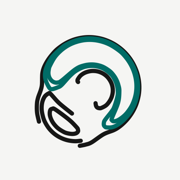
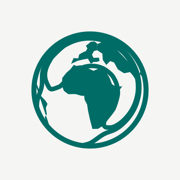
Draw the brand mark as the Earth
The print alone did not read as Earth. The mark is now an orthographic
globe over Africa and Europe, with two ridges from the original print
sweeping through the ocean behind the continents, so the print idea
survives in the shape rather than carrying it.

It is drawn in the theme accent alone. The earlier two-tone attempt put
the accent on ridges at the artwork's own stroke width, which falls
under a pixel once the 512 box is scaled to the 32px nav, so the mark
read as one flat colour with no ridges visible at all.

Coastlines are coarse hand-authored lon/lat outlines projected
orthographically and clipped at the limb, so proportion and curvature
are real while coastline detail is not. The static SVG, apple-touch icon
and favicon.ico are regenerated from the same geometry.

Changed region(s): [[0.1667, 0.1667, 0.8333, 0.8333], [0.3611, 0.3889, 0.3889, 0.4167]]

diff --git a/src/icons/BrandMark.tsx b/src/icons/BrandMark.tsx
@@ -1,51 +1,80 @@
+"use client";
+
+import { useId } from "react";
+
+/**
+ * The EarthPrints mark: an orthographic globe over Africa and Europe, with two
+ * print ridges sweeping through the ocean behind the continents. Drawn in the
+ * theme accent alone, so it re-tints itself in both themes.
+ *
+ * Continents are coarse hand-authored lon/lat outlines projected
+ * orthographically and clipped at the limb, so proportion and curvature are
+ * real while coastline detail is deliberately not.
+ */
+
+/** Coastlines, already projected. */
+const LAND = [
+  "M 82.8 156.1 L 87.0 149.1 L 96.3 137.5 L 107.9 126.5 L 116.3 120.6 L 124.2 118.1 L 137.0 110.0 L 157.8 88.7 L 162.2 81.2 L 185.6 68.9 L 191.2 66.8 Z",
+  "M 58.2 226.5 L 60.8 217.4 L 64.1 229.5 L 72.6 252.4 L 74.7 270.7 L 84.7 280.8 L 96.9 294.0 L 104.3 305.5 L 98.3 320.2 L 102.0 342.1 L 94.5 353.5 L 102.3 376.9 L 106.1 385.7 L 106.7 388.6 L 116.4 399.2 Z",
+  "M 157.1 212.9 L 155.6 240.7 L 163.0 259.0 L 178.2 270.7 L 204.5 270.5 L 224.8 276.5 L 235.1 276.7 L 236.8 290.6 L 245.6 307.7 L 249.2 330.9 L 256.0 362.0 L 264.7 394.9 L 284.8 394.5 L 307.1 380.5 L 319.4 360.0 L 337.6 337.4 L 339.2 321.2 L 346.7 293.8 L 349.7 272.9 L 371.0 242.5 L 350.8 244.8 L 334.6 235.7 L 325.5 212.1 L 313.5 192.5 L 306.1 183.0 L 285.5 180.6 L 268.1 187.5 L 241.5 174.5 L 222.4 167.7 L 208.1 170.2 L 198.0 166.5 L 186.3 181.8 L 172.3 193.9 Z",
+  "M 188.5 162.6 L 197.5 142.0 L 213.9 143.1 L 217.6 129.1 L 230.4 121.7 L 241.7 116.9 L 246.8 107.3 L 241.3 98.2 L 251.7 90.2 L 257.3 84.6 L 271.4 82.5 L 281.1 89.5 L 281.9 102.2 L 281.8 114.1 L 270.3 116.9 L 262.9 130.1 L 268.3 141.2 L 287.8 140.7 L 290.0 152.3 L 280.0 155.7 L 269.4 155.9 L 258.8 162.1 L 248.5 144.1 L 233.1 146.8 L 211.9 151.8 Z",
+  "M 303.9 61.8 L 303.9 61.8 L 312.5 65.0 L 304.2 65.6 L 309.0 71.9 L 312.0 77.7 L 304.4 79.3 L 299.0 84.0 L 290.4 88.9 L 282.1 91.5 L 281.9 102.2 L 281.8 114.1 L 300.0 126.1 L 301.9 148.8 L 314.0 166.5 L 327.9 152.9 L 341.8 157.7 L 355.3 182.2 L 377.3 196.2 L 384.2 195.0 L 398.8 192.1 L 408.9 204.0 L 419.0 219.4 L 430.9 244.7 L 434.5 236.3 L 432.6 199.8 L 435.1 190.6 L 442.4 205.9 L 451.0 226.6 L 450.1 214.6 L 455.8 253.8 L 453.0 221.8 L 452.6 219.1 Z",
+  "M 169.4 94.1 L 175.3 84.9 L 185.6 77.8 L 209.3 67.1 L 230.8 63.0 L 238.8 63.5 L 232.1 69.3 L 218.8 77.2 L 201.2 82.3 L 184.2 87.7 Z",
+];
+
+/**
+ * Ridges carried over from the original print. Kept wider than the source
+ * artwork because a stroke at its own width falls under a pixel once the 512
+ * box is scaled to the 32px nav.
+ */
+const RIDGES = [
+  "M 73.93 368.81 C 72.82 363.61, 68.46 347.85, 67.23 337.61 C 66.00 327.36, 66.03 316.24, 66.57 307.33 C 67.10 298.43, 67.60 294.82, 70.45 284.16 C 73.30 273.50, 80.96 258.67, 83.66 243.37 C 86.36 228.07, 83.65 206.99, 86.66 192.36 C 89.66 177.74, 94.84 167.45, 101.66 155.62 C 108.49 143.79, 119.45 130.43, 127.61 121.38 C 135.76 112.33, 142.50 107.25, 150.57 101.30 C 158.64 95.35, 167.40 90.05, 176.03 85.67 C 184.65 81.30, 193.19 77.85, 202.33 75.04 C 211.47 72.23, 221.39 70.06, 230.88 68.79 C 240.36 67.53, 249.62 67.07, 259.25 67.46 C 268.88 67.85, 279.08 69.11, 288.65 71.13 C 298.23 73.15, 307.48 75.93, 316.70 79.57 C 325.92 83.21, 335.26 87.72, 343.99 92.98 C 352.71 98.24, 361.39 104.55, 369.07 111.13 C 376.75 117.71, 383.66 124.75, 390.08 132.46 C 396.51 140.16, 402.44 148.44, 407.62 157.38 C 412.80 166.33, 417.64 176.76, 421.19 186.12 C 424.73 195.47, 427.06 204.02, 428.87 213.51 C 430.68 223.01, 431.84 233.26, 432.04 243.10 C 432.24 252.93, 431.62 262.66, 430.07 272.53 C 428.52 282.40, 425.68 293.34, 422.73 302.34 C 419.77 311.35, 416.36 318.84, 412.33 326.57 C 408.30 334.30, 403.58 341.77, 398.56 348.72 C 393.54 355.68, 388.25 362.07, 382.19 368.32 C 376.14 374.57, 369.04 381.11, 362.24 386.23 C 355.43 391.36, 351.00 394.43, 341.35 399.06 C 331.71 403.69, 317.60 406.73, 304.35 414.02 C 291.11 421.31, 272.48 436.67, 261.90 442.79 C 251.32 448.90, 247.93 448.68, 240.89 450.73 C 233.84 452.78, 223.16 454.36, 219.62 455.08",
+  "M 207.83 186.61 C 198.92 192.06, 193.35 197.18, 184.42 205.85 C 175.48 214.53, 161.56 231.85, 154.21 238.66 C 146.86 245.47, 145.53 244.40, 140.32 246.74 C 135.10 249.07, 127.10 251.77, 122.92 252.66 C 118.74 253.56, 117.67 253.46, 115.25 252.11 C 112.84 250.76, 111.01 248.89, 108.41 244.54 C 105.82 240.20, 101.82 232.02, 99.68 226.04 C 97.55 220.06, 96.17 214.43, 95.59 208.66 C 95.01 202.88, 95.24 197.27, 96.20 191.38 C 97.15 185.50, 98.83 179.68, 101.30 173.37 C 103.78 167.05, 107.23 159.99, 111.04 153.52 C 114.85 147.04, 116.44 142.95, 124.17 134.53 C 131.90 126.11, 148.54 110.32, 157.42 103.01 C 166.31 95.69, 170.65 94.23, 177.49 90.64 C 184.33 87.04, 191.14 84.03, 198.45 81.43 C 205.75 78.83, 213.57 76.60, 221.32 75.03 C 229.06 73.47, 236.88 72.44, 244.90 72.03 C 252.92 71.62, 261.46 71.84, 269.44 72.58 C 277.43 73.33, 284.92 74.59, 292.81 76.52 C 300.70 78.45, 308.91 81.02, 316.77 84.18 C 324.63 87.34, 332.88 91.44, 339.97 95.50 C 347.06 99.55, 352.92 103.52, 359.31 108.53 C 365.69 113.54, 371.61 118.34, 378.27 125.57 C 384.93 132.80, 393.23 142.72, 399.26 151.92 C 405.29 161.12, 410.32 170.69, 414.47 180.76 C 418.61 190.84, 421.98 201.67, 424.13 212.37 C 426.29 223.06, 427.36 234.37, 427.42 244.92 C 427.47 255.47, 426.57 265.22, 424.47 275.66 C 422.38 286.11, 419.13 297.38, 414.85 307.61 C 410.56 317.85, 404.91 328.05, 398.75 337.06 C 392.59 346.07, 385.03 354.65, 377.88 361.70 C 370.74 368.75, 362.97 374.85, 355.86 379.37 C 348.75 383.88, 342.00 387.09, 335.22 388.78 C 328.44 390.47, 319.58 389.87, 315.20 389.48 C 310.82 389.10, 310.54 387.82, 308.94 386.47 C 307.33 385.12, 306.12 383.62, 305.55 381.39 C 304.99 379.16, 304.83 376.22, 305.54 373.10 C 306.25 369.98, 305.31 369.26, 309.81 362.66 C 314.31 356.06, 327.02 341.34, 332.52 333.52 C 338.03 325.69, 339.21 325.14, 342.83 315.73 C 346.46 306.31, 352.28 287.27, 354.25 277.03 C 356.22 266.79, 355.29 261.46, 354.67 254.30 C 354.04 247.14, 352.65 240.65, 350.51 234.06 C 348.37 227.48, 345.36 220.76, 341.82 214.80 C 338.28 208.84, 335.84 204.28, 329.28 198.30 C 322.71 192.32, 312.17 183.58, 302.43 178.93 C 292.70 174.28, 281.64 171.38, 270.88 170.41 C 260.12 169.44, 248.39 170.42, 237.89 173.12 C 227.38 175.82, 216.74 181.15, 207.83 186.61 Z",
+];
+
 type BrandMarkProps = {
   size?: number;
 };
 
-/**
- * The EarthPrints mark: six ridges reduced from the full print, so the shape
- * still separates at nav and footer sizes. The two crescents carry the theme
- * accent and the rest take the surrounding text colour, which lets one
- * component serve both themes.
- */
 export function BrandMark({ size = 24 }: BrandMarkProps) {
+  // useId() returns colons, which break url(#...) references.
+  const clipId = useId().replace(/:/g, "");
   return (
     <svg
       width={size}
       height={size}
       viewBox="0 0 512 512"
       fill="none"
-      strokeWidth="15"
-      strokeLinecap="round"
-      strokeLinejoin="round"
       className="flex-shrink-0"
       role="img"
       aria-label="EarthPrints"
     >
-      <path
-        d="M 73.93 368.81 C 72.82 363.61, 68.46 347.85, 67.23 337.61 C 66.00 327.36, 66.03 316.24, 66.57 307.33 C 67.10 298.43, 67.60 294.82, 70.45 284.16 C 73.30 273.50, 80.96 258.67, 83.66 243.37 C 86.36 228.07, 83.65 206.99, 86.66 192.36 C 89.66 177.74, 94.84 167.45, 101.66 155.62 C 108.49 143.79, 119.45 130.43, 127.61 121.38 C 135.76 112.33, 142.50 107.25, 150.57 101.30 C 158.64 95.35, 167.40 90.05, 176.03 85.67 C 184.65 81.30, 193.19 77.85, 202.33 75.04 C 211.47 72.23, 221.39 70.06, 230.88 68.79 C 240.36 67.53, 249.62 67.07, 259.25 67.46 C 268.88 67.85, 279.08 69.11, 288.65 71.13 C 298.23 73.15, 307.48 75.93, 316.70 79.57 C 325.92 83.21, 335.26 87.72, 343.99 92.98 C 352.71 98.24, 361.39 104.55, 369.07 111.13 C 376.75 117.71, 383.66 124.75, 390.08 132.46 C 396.51 140.16, 402.44 148.44, 407.62 157.38 C 412.80 166.33, 417.64 176.76, 421.19 186.12 C 424.73 195.47, 427.06 204.02, 428.87 213.51 C 430.68 223.01, 431.84 233.26, 432.04 243.10 C 432.24 252.93, 431.62 262.66, 430.07 272.53 C 428.52 282.40, 425.68 293.34, 422.73 302.34 C 419.77 311.35, 416.36 318.84, 412.33 326.57 C 408.30 334.30, 403.58 341.77, 398.56 348.72 C 393.54 355.68, 388.25 362.07, 382.19 368.32 C 376.14 374.57, 369.04 381.11, 362.24 386.23 C 355.43 391.36, 351.00 394.43, 341.35 399.06 C 331.71 403.69, 317.60 406.73, 304.35 414.02 C 291.11 421.31, 272.48 436.67, 261.90 442.79 C 251.32 448.90, 247.93 448.68, 240.89 450.73 C 233.84 452.78, 223.16 454.36, 219.62 455.08"
-        stroke="currentColor"
-      />
-      <path
-        d="M 207.83 186.61 C 198.92 192.06, 193.35 197.18, 184.42 205.85 C 175.48 214.53, 161.56 231.85, 154.21 238.66 C 146.86 245.47, 145.53 244.40, 140.32 246.74 C 135.10 249.07, 127.10 251.77, 122.92 252.66 C 118.74 253.56, 117.67 253.46, 115.25 252.11 C 112.84 250.76, 111.01 248.89, 108.41 244.54 C 105.82 240.20, 101.82 232.02, 99.68 226.04 C 97.55 220.06, 96.17 214.43, 95.59 208.66 C 95.01 202.88, 95.24 197.27, 96.20 191.38 C 97.15 185.50, 98.83 179.68, 101.30 173.37 C 103.78 167.05, 107.23 159.99, 111.04 153.52 C 114.85 147.04, 116.44 142.95, 124.17 134.53 C 131.90 126.11, 148.54 110.32, 157.42 103.01 C 166.31 95.69, 170.65 94.23, 177.49 90.64 C 184.33 87.04, 191.14 84.03, 198.45 81.43 C 205.75 78.83, 213.57 76.60, 221.32 75.03 C 229.06 73.47, 236.88 72.44, 244.90 72.03 C 252.92 71.62, 261.46 71.84, 269.44 72.58 C 277.43 73.33, 284.92 74.59, 292.81 76.52 C 300.70 78.45, 308.91 81.02, 316.77 84.18 C 324.63 87.34, 332.88 91.44, 339.97 95.50 C 347.06 99.55, 352.92 103.52, 359.31 108.53 C 365.69 113.54, 371.61 118.34, 378.27 125.57 C 384.93 132.80, 393.23 142.72, 399.26 151.92 C 405.29 161.12, 410.32 170.69, 414.47 180.76 C 418.61 190.84, 421.98 201.67, 424.13 212.37 C 426.29 223.06, 427.36 234.37, 427.42 244.92 C 427.47 255.47, 426.57 265.22, 424.47 275.66 C 422.38 286.11, 419.13 297.38, 414.85 307.61 C 410.56 317.85, 404.91 328.05, 398.75 337.06 C 392.59 346.07, 385.03 354.65, 377.88 361.70 C 370.74 368.75, 362.97 374.85, 355.86 379.37 C 348.75 383.88, 342.00 387.09, 335.22 388.78 C 328.44 390.47, 319.58 389.87, 315.20 389.48 C 310.82 389.10, 310.54 387.82, 308.94 386.47 C 307.33 385.12, 306.12 383.62, 305.55 381.39 C 304.99 379.16, 304.83 376.22, 305.54 373.10 C 306.25 369.98, 305.31 369.26, 309.81 362.66 C 314.31 356.06, 327.02 341.34, 332.52 333.52 C 338.03 325.69, 339.21 325.14, 342.83 315.73 C 346.46 306.31, 352.28 287.27, 354.25 277.03 C 356.22 266.79, 355.29 261.46, 354.67 254.30 C 354.04 247.14, 352.65 240.65, 350.51 234.06 C 348.37 227.48, 345.36 220.76, 341.82 214.80 C 338.28 208.84, 335.84 204.28, 329.28 198.30 C 322.71 192.32, 312.17 183.58, 302.43 178.93 C 292.70 174.28, 281.64 171.38, 270.88 170.41 C 260.12 169.44, 248.39 170.42, 237.89 173.12 C 227.38 175.82, 216.74 181.15, 207.83 186.61 Z"
+      <defs>
+        <clipPath id={clipId}>
+          <circle cx="256" cy="256" r="192" />
+        </clipPath>
+      </defs>
+      <g clipPath={"url(#" + clipId + ")"}>
+        {RIDGES.map((d) => (
+          <path
+            key={d}
+            d={d}
+            stroke="var(--accent)"
+            strokeWidth="16"
+            strokeLinecap="round"
+          />
+        ))}
+      </g>
+      <circle
+        cx="256"
+        cy="256"
+        r="200"
         stroke="var(--accent)"
+        strokeWidth="18"
       />
-      <path
-        d="M 204.10 181.92 C 190.79 190.94, 165.22 214.68, 154.61 222.57 C 144.00 230.47, 144.67 228.28, 140.43 229.29 C 136.20 230.30, 132.75 229.72, 129.21 228.63 C 125.67 227.53, 122.15 225.46, 119.19 222.72 C 116.23 219.98, 113.34 216.09, 111.46 212.18 C 109.57 208.27, 108.35 203.88, 107.88 199.26 C 107.41 194.65, 107.76 189.50, 108.65 184.48 C 109.54 179.46, 109.24 177.19, 113.21 169.13 C 117.18 161.07, 124.63 146.19, 132.47 136.14 C 140.32 126.09, 149.95 116.69, 160.29 108.85 C 170.64 101.02, 181.79 94.25, 194.53 89.11 C 207.28 83.98, 222.58 79.72, 236.78 78.05 C 250.98 76.39, 265.52 76.79, 279.74 79.11 C 293.96 81.43, 308.63 85.82, 322.09 91.97 C 335.55 98.11, 350.32 108.19, 360.51 115.99 C 370.71 123.79, 376.54 130.67, 383.26 138.74 C 389.98 146.82, 395.82 155.46, 400.83 164.44 C 405.85 173.41, 410.08 182.97, 413.33 192.61 C 416.58 202.25, 418.98 212.33, 420.33 222.30 C 421.68 232.27, 422.05 242.52, 421.44 252.44 C 420.83 262.36, 419.34 272.04, 416.68 281.80 C 414.02 291.57, 410.02 302.09, 405.46 311.05 C 400.90 320.01, 394.70 328.78, 389.34 335.56 C 383.99 342.33, 378.90 347.06, 373.33 351.71 C 367.75 356.36, 361.14 360.80, 355.88 363.46 C 350.61 366.13, 345.36 367.63, 341.75 367.68 C 338.13 367.73, 335.32 365.92, 334.19 363.74 C 333.05 361.56, 331.26 364.97, 334.93 354.59 C 338.59 344.21, 351.87 317.22, 356.17 301.46 C 360.46 285.70, 360.52 270.50, 360.73 260.06 C 360.93 249.62, 359.17 245.58, 357.42 238.82 C 355.66 232.05, 353.21 225.54, 350.20 219.45 C 347.20 213.36, 343.67 207.66, 339.40 202.26 C 335.14 196.87, 331.54 192.21, 324.62 187.08 C 317.71 181.95, 307.60 175.17, 297.93 171.47 C 288.27 167.77, 277.21 165.40, 266.63 164.90 C 256.06 164.40, 244.90 165.61, 234.48 168.45 C 224.06 171.29, 217.42 172.90, 204.10 181.92 Z"
-        stroke="var(--accent)"
-      />
-      <path
-        d="M 275.83 303.20 C 276.13 304.77, 276.67 310.07, 277.64 312.59 C 278.62 315.11, 279.86 316.98, 281.67 318.34 C 283.47 319.69, 285.95 320.49, 288.46 320.74 C 290.98 321.00, 292.35 321.76, 296.76 319.87 C 301.18 317.97, 309.49 314.41, 314.95 309.39 C 320.41 304.37, 325.95 296.31, 329.50 289.74 C 333.06 283.17, 335.03 276.52, 336.29 269.96 C 337.56 263.40, 337.79 256.86, 337.10 250.41 C 336.42 243.95, 334.80 237.41, 332.19 231.24 C 329.59 225.08, 325.44 218.44, 321.47 213.42 C 317.50 208.39, 313.12 204.53, 308.38 201.08 C 303.64 197.63, 298.36 194.81, 293.02 192.72 C 287.68 190.62, 282.21 189.20, 276.33 188.51 C 270.45 187.83, 264.05 187.69, 257.74 188.61 C 251.43 189.54, 244.31 191.49, 238.50 194.07 C 232.69 196.65, 227.17 200.19, 222.87 204.09 C 218.58 208.00, 214.64 214.14, 212.73 217.49 C 210.83 220.84, 211.33 222.55, 211.45 224.22 C 211.57 225.88, 213.14 226.94, 213.47 227.49"
-        stroke="currentColor"
-      />
-      <path
-        d="M 222.89 437.19 C 219.52 437.45, 209.84 438.91, 202.65 438.74 C 195.47 438.58, 187.02 437.64, 179.78 436.17 C 172.53 434.71, 165.84 432.61, 159.20 429.95 C 152.56 427.28, 145.90 423.89, 139.92 420.18 C 133.95 416.47, 128.45 412.29, 123.33 407.67 C 118.21 403.04, 113.56 398.13, 109.18 392.45 C 104.81 386.77, 100.42 379.88, 97.07 373.57 C 93.73 367.26, 91.36 362.47, 89.11 354.60 C 86.86 346.73, 84.19 335.39, 83.58 326.33 C 82.98 317.28, 83.63 308.13, 85.48 300.25 C 87.32 292.38, 90.76 284.46, 94.66 279.09 C 98.56 273.73, 105.32 269.51, 108.87 268.07 C 112.42 266.63, 109.80 264.69, 115.94 270.45 C 122.09 276.21, 133.13 291.06, 145.75 302.64 C 158.36 314.23, 183.98 333.74, 191.63 339.95"
-        stroke="currentColor"
-      />
-      <path
-        d="M 180.68 361.57 C 193.27 372.08, 202.95 383.01, 208.33 388.94 C 213.71 394.88, 212.17 394.64, 212.94 397.21 C 213.71 399.77, 214.04 402.14, 212.95 404.33 C 211.86 406.52, 209.61 408.94, 206.38 410.35 C 203.16 411.77, 198.54 412.74, 193.61 412.80 C 188.67 412.86, 182.08 411.96, 176.75 410.71 C 171.43 409.45, 167.87 408.62, 161.65 405.24 C 155.42 401.87, 145.96 396.34, 139.40 390.45 C 132.84 384.57, 126.68 377.15, 122.29 369.95 C 117.90 362.75, 114.44 354.12, 113.05 347.24 C 111.65 340.36, 112.50 332.69, 113.92 328.65 C 115.35 324.61, 118.45 323.48, 121.60 323.02 C 124.74 322.56, 122.95 319.48, 132.80 325.91 C 142.65 332.34, 168.09 351.07, 180.68 361.57 Z"
-        stroke="currentColor"
-      />
+      {LAND.map((d) => (
+        <path key={d} d={d} fill="var(--accent)" />
+      ))}
     </svg>
   );
 }
